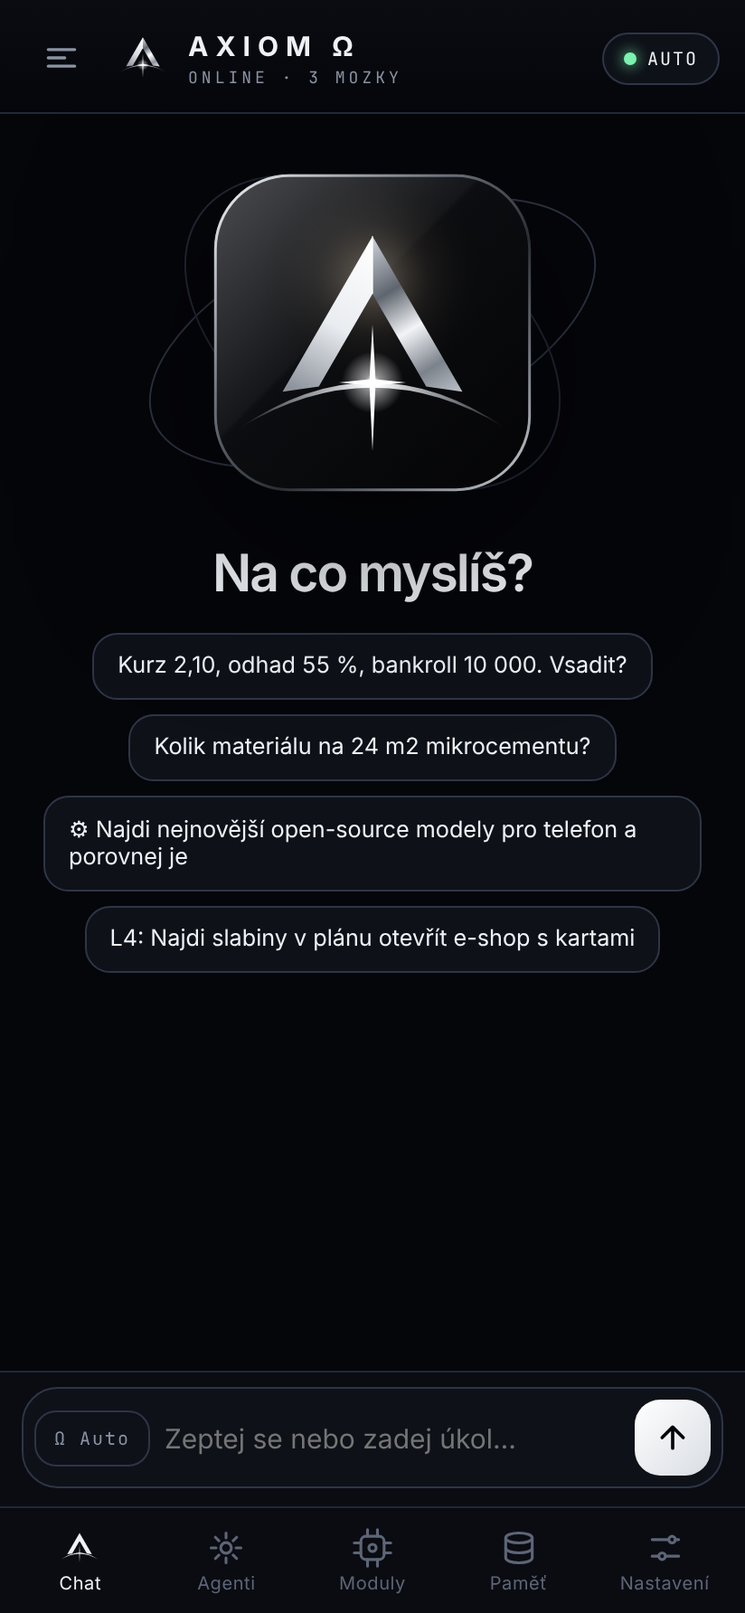
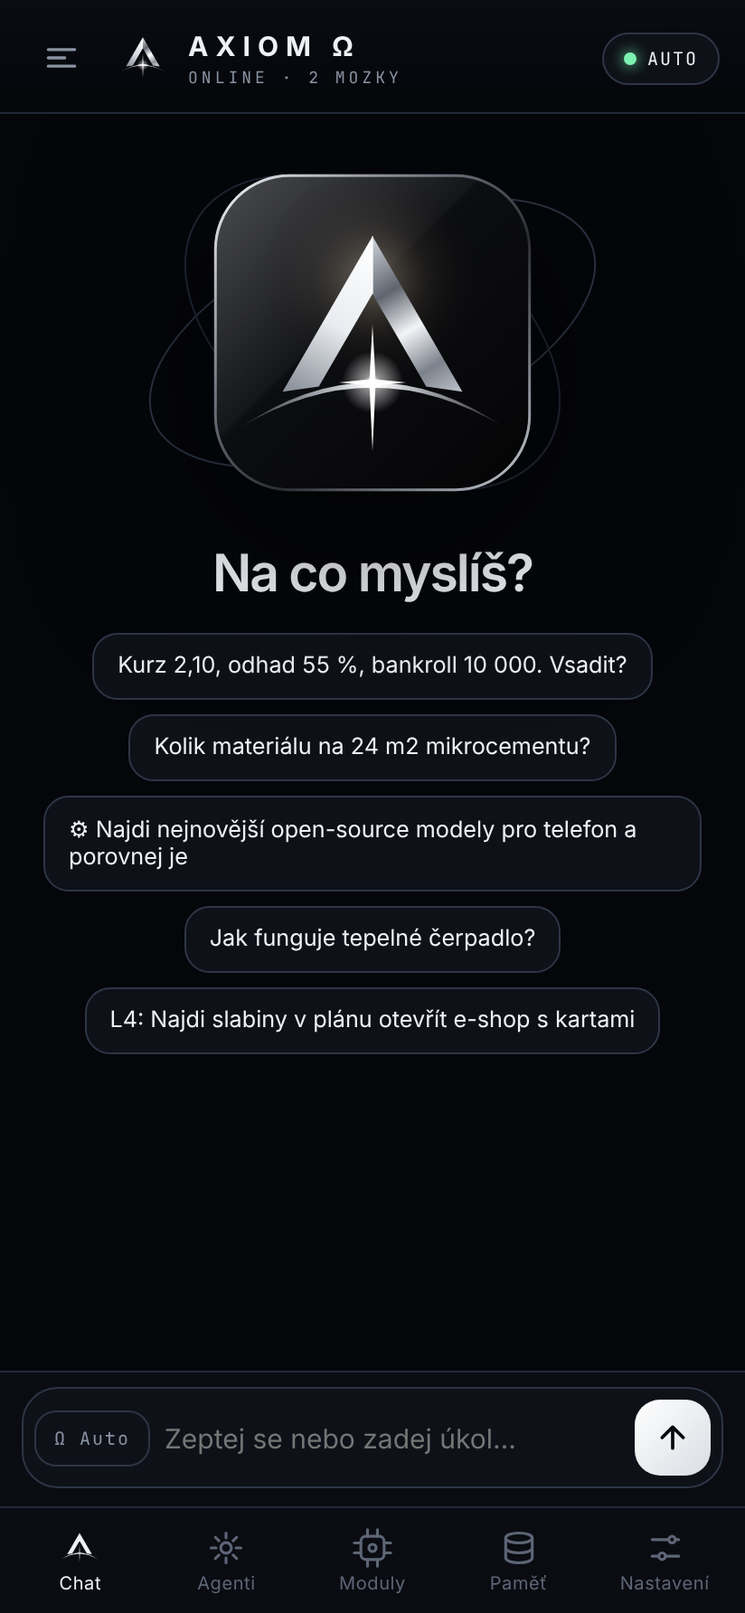
AXIOM Ω 3.2: výkonný lokální mozek jako primární, offline knihovna, specializovaní agenti, bezpečnostní sada
- Mozky v telefonu: + OMEGA Ultra (Gemma 4 26B-A4B), doporučení nejsilnějšího, který se vejde do RAM;
  Kimi K3 jen volitelné připojení, výchozí kontext 8k, rozhodčí Konzilia = lokální mozek
- Offline knihovna: celá česká/slovenská/Simple English Wikipedie (několik GB), UI s průběhem a navazováním,
  lepší český fulltext (výplňová slova)
- Agenti: specializace (Rešeršér, Analytik, Plánovač, Pisatel, Bezpečnostní auditor, Učitel),
  nástroj library (offline encyklopedie)
- Bezpečnostní sada (pasivní/obranná) + testy; 76 unit testů
- Podpis release klíčem přes GitHub Secrets (klíč mimo repozitář)

Claude-Session: https://claude.ai/code/session_01Eke8uTy6Ba5K31wyWJFbnL

Changed region(s): [[0.1517, 0.5549, 0.8495, 0.6474], [0.4248, 0.6166, 0.4854, 0.6474], [0.1517, 0.6166, 0.182, 0.6474]]

diff --git a/app/src/main/assets/ui/app.js b/app/src/main/assets/ui/app.js
@@ -77,10 +77,9 @@ function md(src) {
 
 
 const MODES = [
-  { id: 'auto', ic: 'Ω', name: 'Auto', desc: 'AXIOM sám vybere mozek, hloubku i nástroje.' },
-  { id: 'kimi', ic: 'K3', name: 'Kimi K3', desc: 'Moonshot API – nejsilnější online mozek.' },
+  { id: 'auto', ic: 'Ω', name: 'Auto', desc: 'Myslí mozek v telefonu; AXIOM sám volí hloubku, nástroje a agenty.' },
+  { id: 'local', ic: 'Φ', name: 'V telefonu', desc: 'Jen lokální mozek – úplně offline a soukromé.' },
   { id: 'node', ic: 'N', name: 'AXIOM Node', desc: 'Tvůj zdarma cloud server (HF Space / Oracle).' },
-  { id: 'local', ic: 'Φ', name: 'V telefonu', desc: 'Úplně offline, soukromé.' },
   { id: 'server', ic: 'LAN', name: 'Vlastní server', desc: 'K3 nebo jiný model v domácí síti.' },
   { id: 'claude', ic: 'C', name: 'Claude', desc: 'Volitelně přes tvé Anthropic API.' },
   { id: 'council', ic: '⚖', name: 'Konzilium', desc: 'Víc mozků + rozhodčí.' },
@@ -90,10 +89,16 @@ const KINDS = [
   { id: 'chat', name: 'Odpověď', desc: 'Rychlá odpověď s RANDY průchody.' },
   { id: 'agent', name: 'Aktivní agent', desc: 'Sám plánuje, hledá na webu, počítá a ukládá.' },
 ];
+const ROLES = [
+  { id: '', name: 'Auto' }, { id: 'RESEARCHER', name: 'Rešeršér' }, { id: 'ANALYST', name: 'Analytik' }, { id: 'PLANNER', name: 'Plánovač' },
+  { id: 'WRITER', name: 'Pisatel' }, { id: 'SECURITY', name: 'Bezpečnost' }, { id: 'TUTOR', name: 'Učitel' },
+];
+let agentRole = '';
 const SUGGEST = [
   'Kurz 2,10, odhad 55 %, bankroll 10 000. Vsadit?',
   'Kolik materiálu na 24 m2 mikrocementu?',
   '/agent Najdi nejnovější open-source modely pro telefon a porovnej je',
+  'Jak funguje tepelné čerpadlo?',
   'L4: Najdi slabiny v plánu otevřít e-shop s kartami',
 ];
 
@@ -130,6 +135,7 @@ function refresh() {
   let chip = mode.name.toUpperCase();
   if (busy('download')) chip = 'STAHUJI ' + Math.max(0, S.job.progress) + ' %';
   else if (busy('index')) chip = 'INDEX ' + Math.max(0, S.job.progress) + ' %';
+  else if (busy('library')) chip = 'KNIHOVNA ' + Math.max(0, S.job.progress) + ' %';
   else if (thinking()) chip = 'MYSLÍM';
   $('#engineText').textContent = chip;
   $('#engineDot').className = 'dot ' + (S.job && S.job.busy ? 'busy' : S.online || (S.engines || []).includes('local') ? 'on' : 'off');
@@ -183,7 +189,7 @@ function renderChat() {
     main.innerHTML = `<div class="wrap"><section class="hero">
       <div class="orbit">${appIcon()}</div>
       <h1 style="margin-top:22px">Na co myslíš?</h1>
-      ${ready ? '' : `<div class="card glow" style="text-align:left"><p style="margin:0 0 10px">Dej mi mozek: stáhni ho do telefonu, nebo připoj Kimi K3 / AXIOM Node.</p>
+      ${ready ? '' : `<div class="card glow" style="text-align:left"><p style="margin:0 0 10px">Stáhni mi mozek do telefonu – pak myslím úplně offline.</p>
         <button class="btn primary wide" data-go="modules">Otevřít Moduly</button></div>`}
       <div class="suggest">${SUGGEST.map(s => `<button data-suggest="${esc(s)}">${esc(s.replace(/^\/agent /, '⚙ '))}</button>`).join('')}</div>
     </section></div>`;
@@ -271,12 +277,12 @@ function bindComposer() {
   $('#sendBtn').onclick = () => thinking() ? call('cancel') : send(ta.value);
 }
 
-function send(text, kind) {
+function send(text, kind, role) {
   text = (text || '').trim();
   if (!text) return;
   refresh();
   if (S.job && S.job.busy) return toast('Právě pracuji – počkej nebo mě zastav.');
-  const id = call('send', JSON.stringify({ threadId, text, level: forcedLevel || '', kind: kind ?? forcedKind }));
+  const id = call('send', JSON.stringify({ threadId, text, level: forcedLevel || '', kind: kind ?? forcedKind, role: role || '' }));
   if (!id || id < 0) return;
   draft = '';
   forcedLevel = null;
@@ -292,9 +298,10 @@ function renderAgents() {
   const tasks = J('tasks') || [];
   const st = { running: ['badge core', 'BĚŽÍ'], done: ['badge good', 'HOTOVO'], partial: ['badge warn', 'ČÁSTEČNĚ'], failed: ['badge warn', 'CHYBA'], stopped: ['badge', 'ZASTAVENO'] };
   $('#main').innerHTML = `<div class="wrap">${head('AKTIVNÍ AGENTI', 'Zadej cíl.<br>Zbytek udělám sám.')}
-    ${card(`<textarea id="goal" rows="3" placeholder="Např. Najdi 3 nejlepší dodavatele mikrocementu v ČR, porovnej ceny a ulož shrnutí do znalostí."></textarea>
+    ${card(`<div class="chips">${ROLES.map(r => `<button class="chipbtn ${agentRole === r.id ? 'on' : ''}" data-role="${r.id}">${r.name}</button>`).join('')}</div>
+      <textarea id="goal" rows="3" placeholder="${agentRole === 'SECURITY' ? 'Např. Zkontroluj zabezpečení mého webu mojefirma.cz (vlastním ho) – hlavičky, TLS, DNS, SPF/DMARC, subdomény.' : 'Např. Najdi 3 dodavatele mikrocementu v ČR, porovnej ceny a ulož shrnutí.'}"></textarea>
       <button class="btn primary wide" data-agent-start>Spustit agenta</button>
-      <p class="small muted" style="margin-bottom:0">Agent plánuje, hledá na webu a na Wikipedii, čte stránky, počítá, prohledává offline databázi a ukládá výsledky. Běží i se zhasnutým displejem.</p>`)}
+      ${agentRole === 'SECURITY' ? '<p class="small muted" style="margin-bottom:0">Jen pasivní průzkum a obranné audity. Testuj pouze systémy, které vlastníš nebo máš písemné povolení.</p>' : ''}`)}
     <div class="eyebrow">ÚKOLY</div>
     ${tasks.length ? tasks.map(t => `<div class="card row task" data-thread="${t.threadId}">
       <div class="grow"><b>${esc(t.goal)}</b><div class="meta"><span class="${(st[t.status] || st.stopped)[0]}">${(st[t.status] || st.stopped)[1]}</span> · ${t.steps} KROKŮ · ${esc(t.engine)}</div>
@@ -330,8 +337,8 @@ function renderModules() {
         <input type="url" id="ggufUrl" placeholder="https://…/model.gguf"><button class="btn sm wide" data-gguf-url>Stáhnout z odkazu</button>
         <button class="btn sm wide" data-brain-import>Vybrat .gguf v telefonu</button></div></details>`)}
 
-    <div class="eyebrow">PŘIPOJENÍ</div>
-    ${conn('kimi', 'K3', 'Kimi K3', k.kimi, `
+    <div class="eyebrow">PŘIPOJENÍ (VOLITELNÉ)</div>
+    ${conn('kimi', 'K3', 'Kimi K3 (volitelné)', k.kimi, `
       <label>API klíč (platform.moonshot.ai)</label><input type="password" id="key-kimi" autocomplete="off" placeholder="${k.kimi ? 'Uloženo' : 'sk-…'}">
       <label>Model</label><input type="text" data-text="kimiModel" value="${esc(st.kimiModel)}">
       <div id="models-kimi"></div>
@@ -414,9 +421,17 @@ function renderMemory() {
   const s = d.stats || {};
   const mb = s.bytes ? (s.bytes / 1048576).toFixed(1) + ' MB' : '—';
   const docs = J('kbList') || [];
+  const lib = J('libraries') || { libraries: [], bytes: 0 };
   $('#main').innerHTML = `<div class="wrap">${head('OFFLINE DATABÁZE', 'Vědění v telefonu.')}${tabs}
     <div class="grid2"><div class="stat"><b>${s.docs ?? 0}</b><small>DOKUMENTŮ</small></div><div class="stat"><b>${s.vectors ?? 0}</b><small>SÉMANTICKY INDEXOVÁNO</small></div></div>
     <input type="search" id="kbq" placeholder="Hledat v databázi" style="margin-top:12px"><div id="kbres"></div>
+
+    <div class="eyebrow">OFFLINE KNIHOVNA · ${((lib.bytes || 0) / 1e9).toFixed(2)} GB</div>
+    ${lib.libraries.map(l => { const dl = busy('library') && (S.job.phase || '').includes(l.name); return card(`<b>${esc(l.name)}</b> ${l.done ? '<span class="badge good">OFFLINE</span>' : ''}
+      <p class="small">${esc(l.description)} ~${l.approxGb} GB · ${esc(l.license)}</p>
+      ${l.started && !l.done || dl ? `<div class="progress"><i style="width:${dl ? S.job.progress : l.percent}%"></i></div><div class="meta">${dl ? esc(S.job.detail) : l.percent + ' % – naváže'}</div>` : ''}
+      <div class="row" style="gap:8px;margin-top:8px">${dl ? '<button class="btn sm danger" data-cancel>Pozastavit</button>' : l.done ? '' : `<button class="btn sm primary" data-lib-start="${l.id}">${l.started ? 'Pokračovat' : 'Stáhnout'}</button>`}
+      ${l.started && !dl ? `<button class="icon-btn" data-lib-remove="${l.id}" aria-label="Smazat">${ICONS.trash}</button>` : ''}</div>`); }).join('')}
 
     <div class="eyebrow">PŘIDAT ZNALOSTI</div>
     ${card(`<div class="row"><input type="text" id="wikiTopic" placeholder="Téma z Wikipedie (např. tepelné čerpadlo)"><button class="btn sm" data-wiki>Stáhnout</button></div>
@@ -445,8 +460,8 @@ function renderMemory() {
   $('#kbq').addEventListener('input', e => {
     clearTimeout(renderMemory.t);
     renderMemory.t = setTimeout(() => {
-      const r = J('kbSearch', e.target.value) || [];
-      $('#kbres').innerHTML = r.map(x => card(`<b>${esc(x.title)}</b><p class="small">${esc(x.text.slice(0, 300))}</p>`)).join('');
+      const r = [...(J('kbSearch', e.target.value) || []), ...(J('librarySearch', e.target.value) || [])];
+      $('#kbres').innerHTML = r.slice(0, 12).map(x => card(`<b>${esc(x.title)}</b><p class="small">${esc(x.text.slice(0, 300))}</p>`)).join('');
     }, 250);
   });
 }
@@ -512,9 +527,8 @@ function modeSheet() {
 
 function welcomeSheet() {
   sheet(`<div style="text-align:center;padding:6px 0 4px"><div style="width:96px;height:96px;margin:0 auto">${appIcon()}</div>
-    <h2 style="margin-top:12px">AXIOM Ω</h2><p>Samostatná AI. Vyber, kde má myslet:</p></div>
-    <button class="opt" data-onboard="brain"><span class="ic">Φ</span><span class="grow"><b>V telefonu (offline)</b><small>Stáhnu Gemma 4 – nejnovější mozek od Google.</small></span></button>
-    <button class="opt" data-onboard="kimi"><span class="ic">K3</span><span class="grow"><b>Kimi K3 (online)</b><small>Mám klíč Moonshot.</small></span></button>
+    <h2 style="margin-top:12px">AXIOM Ω</h2><p>Samostatná AI s mozkem v telefonu.</p></div>
+    <button class="opt" data-onboard="brain"><span class="ic">Φ</span><span class="grow"><b>V telefonu (offline)</b><small>Doporučím nejsilnější Gemma 4, která se vejde do tvého telefonu.</small></span></button>
     <button class="opt" data-onboard="node"><span class="ic">N</span><span class="grow"><b>AXIOM Node (free cloud)</b><small>Vlastní server zdarma.</small></span></button>
     <button class="btn ghost wide" data-onboard="later">Později</button>`);
 }
@@ -556,6 +570,7 @@ window.omegaReceive = function (type, d) {
     case 'progress':
       S.job = d; refresh();
       if (view === 'modules') renderModules();
+      if (view === 'memory' && memTab === 'kb' && !document.activeElement?.matches('input,textarea')) renderMemory();
       break;
     case 'brains': refresh(); if (view === 'modules') renderModules(); break;
     case 'hf_models': hf.models = d.models; hf.files = null; if (view === 'modules') $('#hfres').innerHTML = hfHtml(); break;
@@ -620,7 +635,10 @@ document.addEventListener('click', e => {
     return;
   }
   if (ds.retry) { const i = msgs.findIndex(x => x.id === Number(ds.retry)); const u = msgs.slice(0, i).reverse().find(x => x.role === 'user'); u && send(u.content); return; }
-  if (ds.agentStart !== undefined) { const g = val('goal'); if (!g) return toast('Napiš cíl.'); threadId = 0; msgs = []; send(g, 'agent'); return; }
+  if (ds.agentStart !== undefined) { const g = val('goal'); if (!g) return toast('Napiš cíl.'); threadId = 0; msgs = []; send(g, 'agent', agentRole); return; }
+  if (ds.role !== undefined && t.classList.contains('chipbtn')) { agentRole = ds.role; renderAgents(); return; }
+  if (ds.libStart) { call('libraryStart', ds.libStart); setTimeout(() => { refresh(); renderMemory(); }, 500); return; }
+  if (ds.libRemove) { if (confirm('Smazat knihovnu z telefonu?')) call('libraryRemove', ds.libRemove); return; }
   if (ds.taskDel) { e.stopPropagation(); call('deleteTask', Number(ds.taskDel)); renderAgents(); return; }
   if (ds.cancel !== undefined) { call('cancel'); return; }
   if (ds.brainDownload) { call('brainDownload', ds.brainDownload); setTimeout(() => { refresh(); renderModules(); }, 500); return; }
@@ -659,7 +677,7 @@ document.addEventListener('click', e => {
     configure({ onboarded: true });
     closeSheet();
     if (ds.onboard !== 'later') { go('modules'); }
-    if (ds.onboard === 'kimi' || ds.onboard === 'node') setTimeout(() => { const d = [...document.querySelectorAll('details.conn')][ds.onboard === 'kimi' ? 0 : 1]; if (d) { d.open = true; d.scrollIntoView({ block: 'center' }); } }, 80);
+    if (ds.onboard === 'node') setTimeout(() => { const d = [...document.querySelectorAll('details.conn')][1]; if (d) { d.open = true; d.scrollIntoView({ block: 'center' }); } }, 80);
     return;
   }
 });
@@ -673,7 +691,7 @@ document.addEventListener('change', e => {
 
 $('#btnThreads').onclick = openDrawer;
 $('#drawerBg').onclick = closeDrawer;
-$('#engineChip').onclick = () => (busy('download') || busy('index')) ? go('modules') : modeSheet();
+$('#engineChip').onclick = () => busy('library') ? (memTab = 'kb', go('memory')) : (busy('download') || busy('index')) ? go('modules') : modeSheet();
 $('#brand').onclick = selfSheet;
 
 (function start() {

diff --git a/tools/ui-preview/mock.js b/tools/ui-preview/mock.js
@@ -24,7 +24,7 @@
   ] };
   const levels = [['L0', 'DIRECT', 'Okamžitý faktický výstup bez omáčky', 1, 'low'], ['L1', 'EXPERT', 'Technické parametry, normy a přesné hodnoty', 1, 'medium'], ['L2', 'DEEP', 'Hloubková syntéza z prvních principů', 2, 'high'], ['L3', 'STRATEGIC +EV', 'Kvantitativní výpočet marže, ROI a +EV', 2, 'high'], ['L4', 'NEMESIS RED-TEAM', 'Útočný audit, hledání slabin a rizik', 3, 'high'], ['L5', 'FORENSIC', 'Forenzní rekonstrukce stop a integrity dat', 3, 'high'], ['L6', 'OMNISCIENT', 'Multioborová syntéza s extrapolací dopadů', 3, 'max']].map(([code, title, label, passes, effort]) => ({ code, title, label, passes, effort }));
   window.Omega = {
-    state: () => JSON.stringify({ version: '3.0.0', name: 'AXIOM Ω', job, settings, keys: { kimi: true, claude: false, server: false, node: true, hf: false }, engines: ['kimi', 'node', 'local'], sense: true, online: true, native: true, brain: 'OMEGA Lite · Qwen3.5 2B', counts: { memory: 6, docs: 27, threads: 2 } }),
+    state: () => JSON.stringify({ version: '3.0.0', name: 'AXIOM Ω', job, settings, keys: { kimi: true, claude: false, server: false, node: true, hf: false }, engines: ['local', 'node'], sense: true, online: true, native: true, brain: 'OMEGA Lite · Qwen3.5 2B', counts: { memory: 6, docs: 27, threads: 2 } }),
     self: () => JSON.stringify({ name: 'AXIOM Ω', codename: 'OMEGA', version: '3.0.0', lineage: 'AXIOM 2.1 Hybrid → AXIOM Titanium 5.5 (RANDY, STEP-0, ASTRAEA +EV) → AXIOM Ω 3.0', principles: ['Rozlišuj doložená fakta, odvození, předpoklady a neznámé.', 'Čísla z bloku STEP-0 spočítal deterministický kód.', 'O sobě mluv přesně: jsi software s jazykovým modelem, sebemodelem a pamětí – ne vědomá bytost.'], describe: 'Běžím na: Kimi K3 · cloud (kimi-k3) (Kimi K3 · cloud, mozek OMEGA Lite · Qwen3.5 2B). Síť: online. Paměť: 6 záznamů, znalostní báze: 27 dokumentů, konverzací: 2. Baterie 64 %.', battery: 64, charging: false, ramFreeMb: 3120, ramTotalGb: '7.6', thermal: 'v normě', online: true, device: 'Google Pixel 9 · Android 16 · arm64-v8a', confidence: 81, memory: 6, docs: 27, threads: 2, levels }),
     threads: () => JSON.stringify(threads),
     messages: id => JSON.stringify(messages[id] || []),
@@ -34,7 +34,12 @@
     tasks: () => JSON.stringify([
       { id: 2, threadId: 1, goal: 'Najdi 3 dodavatele mikrocementu v ČR a porovnej ceny', status: 'running', engine: 'Kimi K3 · cloud (kimi-k3)', steps: 4, result: '' },
       { id: 1, threadId: 2, goal: 'Porovnej nejnovější open-source modely pro telefon', status: 'done', engine: 'AXIOM Node (axiom)', steps: 7, result: 'Gemma 4 E4B vede v poměru výkon/velikost…' }]),
-    deleteTask() {}, hfSearch() { setTimeout(() => omegaReceive('hf_models', { models: [{ id: 'unsloth/gemma-4-E4B-it-GGUF', downloads: 812345 }, { id: 'unsloth/Qwen3.6-35B-A3B-GGUF', downloads: 402100 }] }), 50); },
+    deleteTask() {},
+    libraries: () => JSON.stringify({ bytes: 2.31e9, articles: 214000, libraries: [
+      { id: 'wiki-cs', name: 'Česká Wikipedie – celá', description: '534 tisíc článků: věda, technika, historie, zeměpis, osobnosti, právo, medicína…', rows: 534044, approxGb: 5.0, license: 'CC BY-SA 4.0', offset: 214000, done: false, percent: 40, started: true },
+      { id: 'wiki-sk', name: 'Slovenská Wikipedie – celá', description: '242 tisíc článků ve slovenštině.', rows: 242235, approxGb: 1.8, license: 'CC BY-SA 4.0', offset: 0, done: false, percent: 0, started: false },
+      { id: 'wiki-simple', name: 'Simple English Wikipedia', description: '242 tisíc článků v jednoduché angličtině.', rows: 241787, approxGb: 1.2, license: 'CC BY-SA 4.0', offset: 241787, done: true, percent: 100, started: true }] }),
+    librarySearch: () => '[]', libraryStart() {}, libraryRemove() {}, hfSearch() { setTimeout(() => omegaReceive('hf_models', { models: [{ id: 'unsloth/gemma-4-E4B-it-GGUF', downloads: 812345 }, { id: 'unsloth/Qwen3.6-35B-A3B-GGUF', downloads: 402100 }] }), 50); },
     hfFiles(repo) { setTimeout(() => omegaReceive('hf_files', { repo, files: [{ path: 'a-Q4_K_M.gguf', quant: 'Q4_K_M', sizeLabel: '4.98 GB', fits: true }, { path: 'a-Q8_0.gguf', quant: 'Q8_0', sizeLabel: '8.19 GB', fits: false }] }), 50); },
     hfDownload() {}, brainFromUrl() {}, datasetImport() {}, wikiImport() {}, indexStart() {}, cloudBackup() {}, cloudRestore() {},
     packs: () => JSON.stringify(packs),

diff --git a/core/src/test/kotlin/cz/axiom/omega/core/SecurityLibraryTest.kt b/core/src/test/kotlin/cz/axiom/omega/core/SecurityLibraryTest.kt
@@ -1,0 +1,88 @@
+package cz.axiom.omega.core
+
+import cz.axiom.omega.core.agent.AgentRole
+import cz.axiom.omega.core.library.Libraries
+import cz.axiom.omega.core.security.SecTools
+import org.junit.Assert.assertEquals
+import org.junit.Assert.assertFalse
+import org.junit.Assert.assertNull
+import org.junit.Assert.assertTrue
+import org.junit.Test
+
+class SecurityLibraryTest {
+
+    @Test fun hashes() {
+        val h = SecTools.hash("abc")
+        assertTrue(h.contains("MD5: 900150983cd24fb0d6963f7d28e17f72"))
+        assertTrue(h.contains("SHA-256: ba7816bf8f01cfea414140de5dae2223b00361a396177a9cb410ff61f20015ad"))
+        assertEquals("SHA-1 (40 hex)", SecTools.identifyHash("a9993e364706816aba3e25717850c26c9cd0d89d"))
+        assertEquals("bcrypt", SecTools.identifyHash("\$2b\$12\$abcdefghijklmnopqrstuv"))
+    }
+
+    @Test fun encodeRoundTrip() {
+        assertEquals("ahoj světe", SecTools.encode("base64d", SecTools.encode("base64", "ahoj světe")))
+        assertEquals("ahoj", SecTools.encode("hexd", SecTools.encode("hex", "ahoj")))
+        assertEquals("a b&c", SecTools.encode("urld", SecTools.encode("url", "a b&c")))
+    }
+
+    @Test fun jwtWarnsOnAlgNone() {
+        val b64 = { s: String -> java.util.Base64.getUrlEncoder().withoutPadding().encodeToString(s.toByteArray()) }
+        val t = b64("""{"alg":"none","typ":"JWT"}""") + "." + b64("""{"sub":"42"}""") + "."
+        val r = SecTools.jwt(t)
+        assertTrue(r, r.contains("alg=none"))
+        assertTrue(r, r.contains("chybí exp"))
+    }
+
+    @Test fun passwordStrength() {
+        assertTrue(SecTools.passwordStrength("heslo123").startsWith("Síla: SLABÉ"))
+        assertTrue(SecTools.passwordStrength("t7#Qm!vR2zLw9@pXe4").contains("SILNÉ"))
+    }
+
+    @Test fun pwnedParse() {
+        val body = "0018A45C4D1DEF81644B54AB7F969B88D65:1\r\n1E4C9B93F3F0682250B6CF8331B7EE68FD8:3861493\r\n"
+        assertEquals(3861493, SecTools.parsePwned(body, "1E4C9B93F3F0682250B6CF8331B7EE68FD8"))
+        assertEquals(0, SecTools.parsePwned(body, "FFFF"))
+    }
+
+    @Test fun secretScan() {
+        val r = SecTools.secretScan("aws=AKIAIOSFODNN7EXAMPLE\ntoken: ghp_${"a".repeat(36)}\npassword = Sup3rTajne!")
+        assertTrue(r, r.contains("AWS Access Key"))
+        assertTrue(r, r.contains("GitHub token"))
+        assertTrue(r, r.contains("Heslo v konfiguraci"))
+        assertFalse(r, r.contains("AKIAIOSFODNN7EXAMPLE")) // tajemství se maskuje
+        assertEquals("Žádná tajemství nenalezena.", SecTools.secretScan("nic tu není"))
+    }
+
+    @Test fun headerAudit() {
+        val bad = SecTools.auditHeaders(mapOf("Server" to listOf("Apache/2.4.1"), "Set-Cookie" to listOf("sid=1; Path=/")), https = true)
+        assertTrue(bad.score < 50)
+        assertTrue(bad.findings.any { it.contains("CHYBÍ content-security-policy") })
+        assertTrue(bad.findings.any { it.contains("bez HttpOnly") })
+        val good = SecTools.auditHeaders(
+            mapOf(
+                "Strict-Transport-Security" to listOf("max-age=63072000"), "Content-Security-Policy" to listOf("default-src 'self'; frame-ancestors 'none'"),
+                "X-Content-Type-Options" to listOf("nosniff"), "Referrer-Policy" to listOf("no-referrer"), "Permissions-Policy" to listOf("camera=()"),
+            ),
+            https = true,
+        )
+        assertEquals(100, good.score)
+    }
+
+    @Test fun crtShParse() {
+        val body = """[{"name_value":"www.example.cz\n*.example.cz"},{"name_value":"mail.example.cz"},{"name_value":"evil.com"}]"""
+        assertEquals(listOf("example.cz", "mail.example.cz", "www.example.cz"), SecTools.parseCrtSh(body, "example.cz"))
+    }
+
+    @Test fun libraryQueryAndScore() {
+        assertEquals("\"tepel\"* \"cerpa\"*", Libraries.ftsQuery("Jak funguje tepelné čerpadlo?", and = true))
+        assertEquals("\"tepel\"* OR \"cerpa\"*", Libraries.ftsQuery("tepelné čerpadlo", and = false))
+        assertNull(Libraries.ftsQuery("jak a co", and = true))
+        assertTrue(Libraries.score("tepelné čerpadlo", "Tepelné čerpadlo", "…") > Libraries.score("tepelné čerpadlo", "Kotel", "tepelné čerpadlo"))
+        assertEquals(534_044, Libraries.of("wiki-cs")!!.rows)
+    }
+
+    @Test fun agentRoles() {
+        assertEquals(AgentRole.SECURITY, AgentRole.of("security"))
+        assertTrue(AgentRole.SECURITY.instruction.contains("povolení"))
+    }
+}

diff --git a/core/src/main/kotlin/cz/axiom/omega/core/library/Library.kt b/core/src/main/kotlin/cz/axiom/omega/core/library/Library.kt
@@ -60,5 +60,7 @@ object Libraries {
     private val STOP = setOf(
         "jak", "jaky", "jaka", "jake", "kde", "kdy", "kdo", "co", "proc", "neni", "jsou", "byl", "byla", "bylo", "pro", "nebo", "ale", "the",
         "and", "for", "with", "what", "how", "who", "kolik", "muze", "mohu", "jsem", "jsi", "tak", "take", "jeho", "jeji", "ktery", "ktera", "ktere",
+        "funguje", "funguji", "znamena", "vysvetli", "popis", "popiste", "rekni", "prosim", "muzes", "chci", "potrebuji", "najdi", "udelej",
+        "napis", "jaky", "jakym", "zda", "jestli", "nejaky", "neco", "vsechno", "about", "does", "work", "explain", "tell",
     )
 }

diff --git a/app/src/main/assets/ui/app.css b/app/src/main/assets/ui/app.css
@@ -281,3 +281,7 @@ details.conn > summary { list-style: none; padding: 12px 14px; cursor: pointer; 
 details.conn > summary::-webkit-details-marker { display: none; }
 details.conn > div { padding: 0 14px 14px; }
 .suggest button { text-align: left; max-width: 100%; }
+
+.chips { display: flex; flex-wrap: wrap; gap: 6px; margin-bottom: 10px; }
+.chipbtn { padding: 7px 11px; border-radius: 999px; border: 1px solid var(--line2); font-size: .8rem; color: var(--muted); }
+.chipbtn.on { color: var(--bg); background: var(--text); border-color: var(--text); }

diff --git a/core/src/main/kotlin/cz/axiom/omega/core/self/SelfModel.kt b/core/src/main/kotlin/cz/axiom/omega/core/self/SelfModel.kt
@@ -17,7 +17,7 @@ import kotlin.math.ln
 object Identity {
     const val NAME = "AXIOM Ω"
     const val CODENAME = "OMEGA"
-    const val VERSION = "3.1.0"
+    const val VERSION = "3.2.0"
     const val LINEAGE = "AXIOM 2.1 Hybrid → AXIOM Titanium 5.5 (RANDY, STEP-0, ASTRAEA +EV) → AXIOM Ω 3.0"
 
     val principles = listOf(

diff --git a/README.md b/README.md
@@ -8,30 +8,39 @@ Nástupce **AXIOM 2.1 Hybrid** a **AXIOM Titanium 5.5**. Zachovává jejich DNA 
 a přidává funkční sebemodel, dlouhodobou paměť, offline databáze, Kimi K3 a Claude.
 Rozbor původní aplikace a seznam opravených chyb: [docs/REVERSE_ENGINEERING.md](docs/REVERSE_ENGINEERING.md).
 
-## Co umí (3.1)
+## Co umí (3.2)
 
-* **Ω Auto – AI si sama vybere moduly.** Router podle zadání rozhodne, jestli odpovědět, nebo spustit
-  aktivního agenta; který mozek použít (jednoduché věci v telefonu, náročné na nejsilnějším dostupném)
-  a jak hluboko myslet (RANDY L0–L6). Výslovná volba uživatele (`/agent`, `/chat`, `/konzilium`, `L4:`,
-  ruční výběr mozku) má vždy přednost. U odpovědi je vidět, proč se tak rozhodl.
-* **Aktivní agenti** (záložka Agenti nebo `/agent …`): sám plánuje a v krocích používá nástroje –
-  web (DuckDuckGo), čtení stránek, Wikipedie, Hugging Face, přesné výpočty a STEP-0, offline databáze,
-  paměť, ukládání poznámek. Běží na pozadí i se zhasnutým displejem, úkoly se ukládají.
-* **Nezávislost:** funguje úplně bez Claude – v telefonu (Gemma 4), na Kimi K3, na vlastním serveru
-  nebo na zdarma AXIOM Node. Claude je jen jeden z volitelných mozků.
+* **Výkonný mozek v telefonu je primární.** AXIOM myslí lokálně (llama.cpp, flash attention, KV cache Q8,
+  kontext až 16k). Cloudy (AXIOM Node, Kimi K3, Claude) jsou jen volitelné doplňky – AXIOM je plnohodnotný bez nich.
+* **Ω Auto – AI si sama vybere moduly:** odpověď, nebo aktivního agenta, hloubku RANDY a nástroje.
+  Výslovná volba uživatele (`/agent`, `/chat`, `/konzilium`, `L4:`, ruční výběr mozku) má vždy přednost.
+* **Aktivní agenti se specializacemi:** Rešeršér, Analytik, Plánovač, Pisatel, Bezpečnostní auditor, Učitel.
+  Nástroje: offline knihovna, web, čtení stránek, Wikipedie, Hugging Face, přesné výpočty a STEP-0,
+  paměť, poznámky – a bezpečnostní sada. Běží na pozadí, kroky jsou vidět.
+* **Bezpečnostní sada pro etické testování** (pasivní a obranná): audit HTTP hlaviček, cookies a TLS,
+  DNS + SPF/DMARC, subdomény z Certificate Transparency, RDAP/WHOIS, zranitelnosti z OSV.dev (CVE/GHSA,
+  balíček+verze), hledání uniklých klíčů, JWT dekodér, hashe, kódování, síla hesla + únik přes HIBP
+  (k-anonymita). Jen pro systémy, které vlastníš nebo máš písemné povolení.
 
-## Mozky
+## Mozky (všechny běží v telefonu)
 
-| Mozek | Kde | Poznámka |
+| Mozek | RAM | Poznámka |
 |---|---|---|
-| **OMEGA Core · Gemma 4 E4B** | telefon 8+ GB | nejnovější Google model pro zařízení (duben 2026), doporučeno |
-| **OMEGA Lite · Gemma 4 E2B** | telefon 6+ GB | rychlejší Gemma 4 |
-| **OMEGA Max · Qwen3.6-35B-A3B** | telefon 16+ GB / Node | MoE 35B, aktivní 3B – nejsilnější, co se vejde |
-| OMEGA Mini · Qwen3.5 2B, AXIOM Classic | telefon 4 GB | pro starší telefony / kontinuita s 2.1 |
-| **Kimi K3** | `api.moonshot.ai` | 2,8T parametrů – v telefonu fyzicky neběží |
-| **AXIOM Node** | zdarma: HF Spaces / Oracle Free | vlastní cloud server, viz [server/](server) |
-| Vlastní server, Claude | LAN / Anthropic API | volitelné |
-| **Jakýkoli GGUF** | Hugging Face hledání, odkaz, soubor v telefonu | Moduly → Hugging Face |
+| **OMEGA Max · Qwen3.6-35B-A3B** | 16+ GB | MoE 35B (3B aktivních) – nejsilnější |
+| **OMEGA Ultra · Gemma 4 26B-A4B** | 12+ GB | MoE 26B (4B aktivních) |
+| **OMEGA Core · Gemma 4 E4B** | 8+ GB | nejnovější Google model pro zařízení (duben 2026) |
+| **OMEGA Lite · Gemma 4 E2B** | 6+ GB | rychlá Gemma 4 |
+| OMEGA Mini · Qwen3.5 2B, AXIOM Classic | 4 GB | starší telefony / kontinuita s 2.1 |
+| **Jakýkoli GGUF** | — | Moduly → Hugging Face (hledání, odkaz, soubor) |
+
+Aplikace doporučí nejsilnější mozek, který se vejde do RAM telefonu. Volitelně: AXIOM Node (zdarma server,
+[server/](server)), vlastní server v LAN, Kimi K3, Claude.
+
+## Offline knihovna (několik GB)
+
+Celá **česká Wikipedie** (534 tis. článků, ~5 GB), **slovenská** (242 tis.) a **Simple English** (242 tis.)
+ke stažení do telefonu – samostatná databáze s fulltextem (prefixové hledání zvládá české tvary slov),
+navazování po přerušení, kontrola místa. Odpovědi i agenti z ní čerpají bez internetu.
 
 ## Rozšíření z Hugging Face
 
@@ -39,6 +48,12 @@ Rozbor původní aplikace a seznam opravených chyb: [docs/REVERSE_ENGINEERING.m
   významu, ne jen podle slov (hybridní hledání).
 * **Vyhledávání modelů na HF** přímo v aplikaci, výpis kvantizací s velikostí a kontrolou RAM, ověřené stažení (SHA-256 z LFS).
 * **Datasety z HF** (datasets-server) a **články z Wikipedie** k tématu → offline databáze.
+
+## Podpis a aktualizace
+
+Release APK se podepisuje vlastním klíčem z GitHub Secrets (`OMEGA_KEYSTORE_B64`, `OMEGA_KEYSTORE_PASSWORD`,
+`OMEGA_KEY_ALIAS`, `OMEGA_KEY_PASSWORD`) – díky tomu jde každá nová verze nainstalovat přes starou.
+Klíč se do repozitáře nikdy neukládá.
 
 ## Stažení APK
 
@@ -50,7 +65,7 @@ Rozbor původní aplikace a seznam opravených chyb: [docs/REVERSE_ENGINEERING.m
 ## Vývoj
 
 ```
-./gradlew :core:test                                   # 66 unit testů (JVM, bez Androidu)
+./gradlew :core:test                                   # 76 unit testů (JVM, bez Androidu)
 ./gradlew :app:assembleDebug                           # plné APK včetně llama.cpp (NDK 27.2, CMake 3.22.1)
 ./gradlew :app:assembleDebug -Pomega.native=false      # rychlé APK bez nativní části
 tools/ui-preview/build.sh && node tools/ui-preview/shoot.js /tmp   # náhled UI s mock mostem
